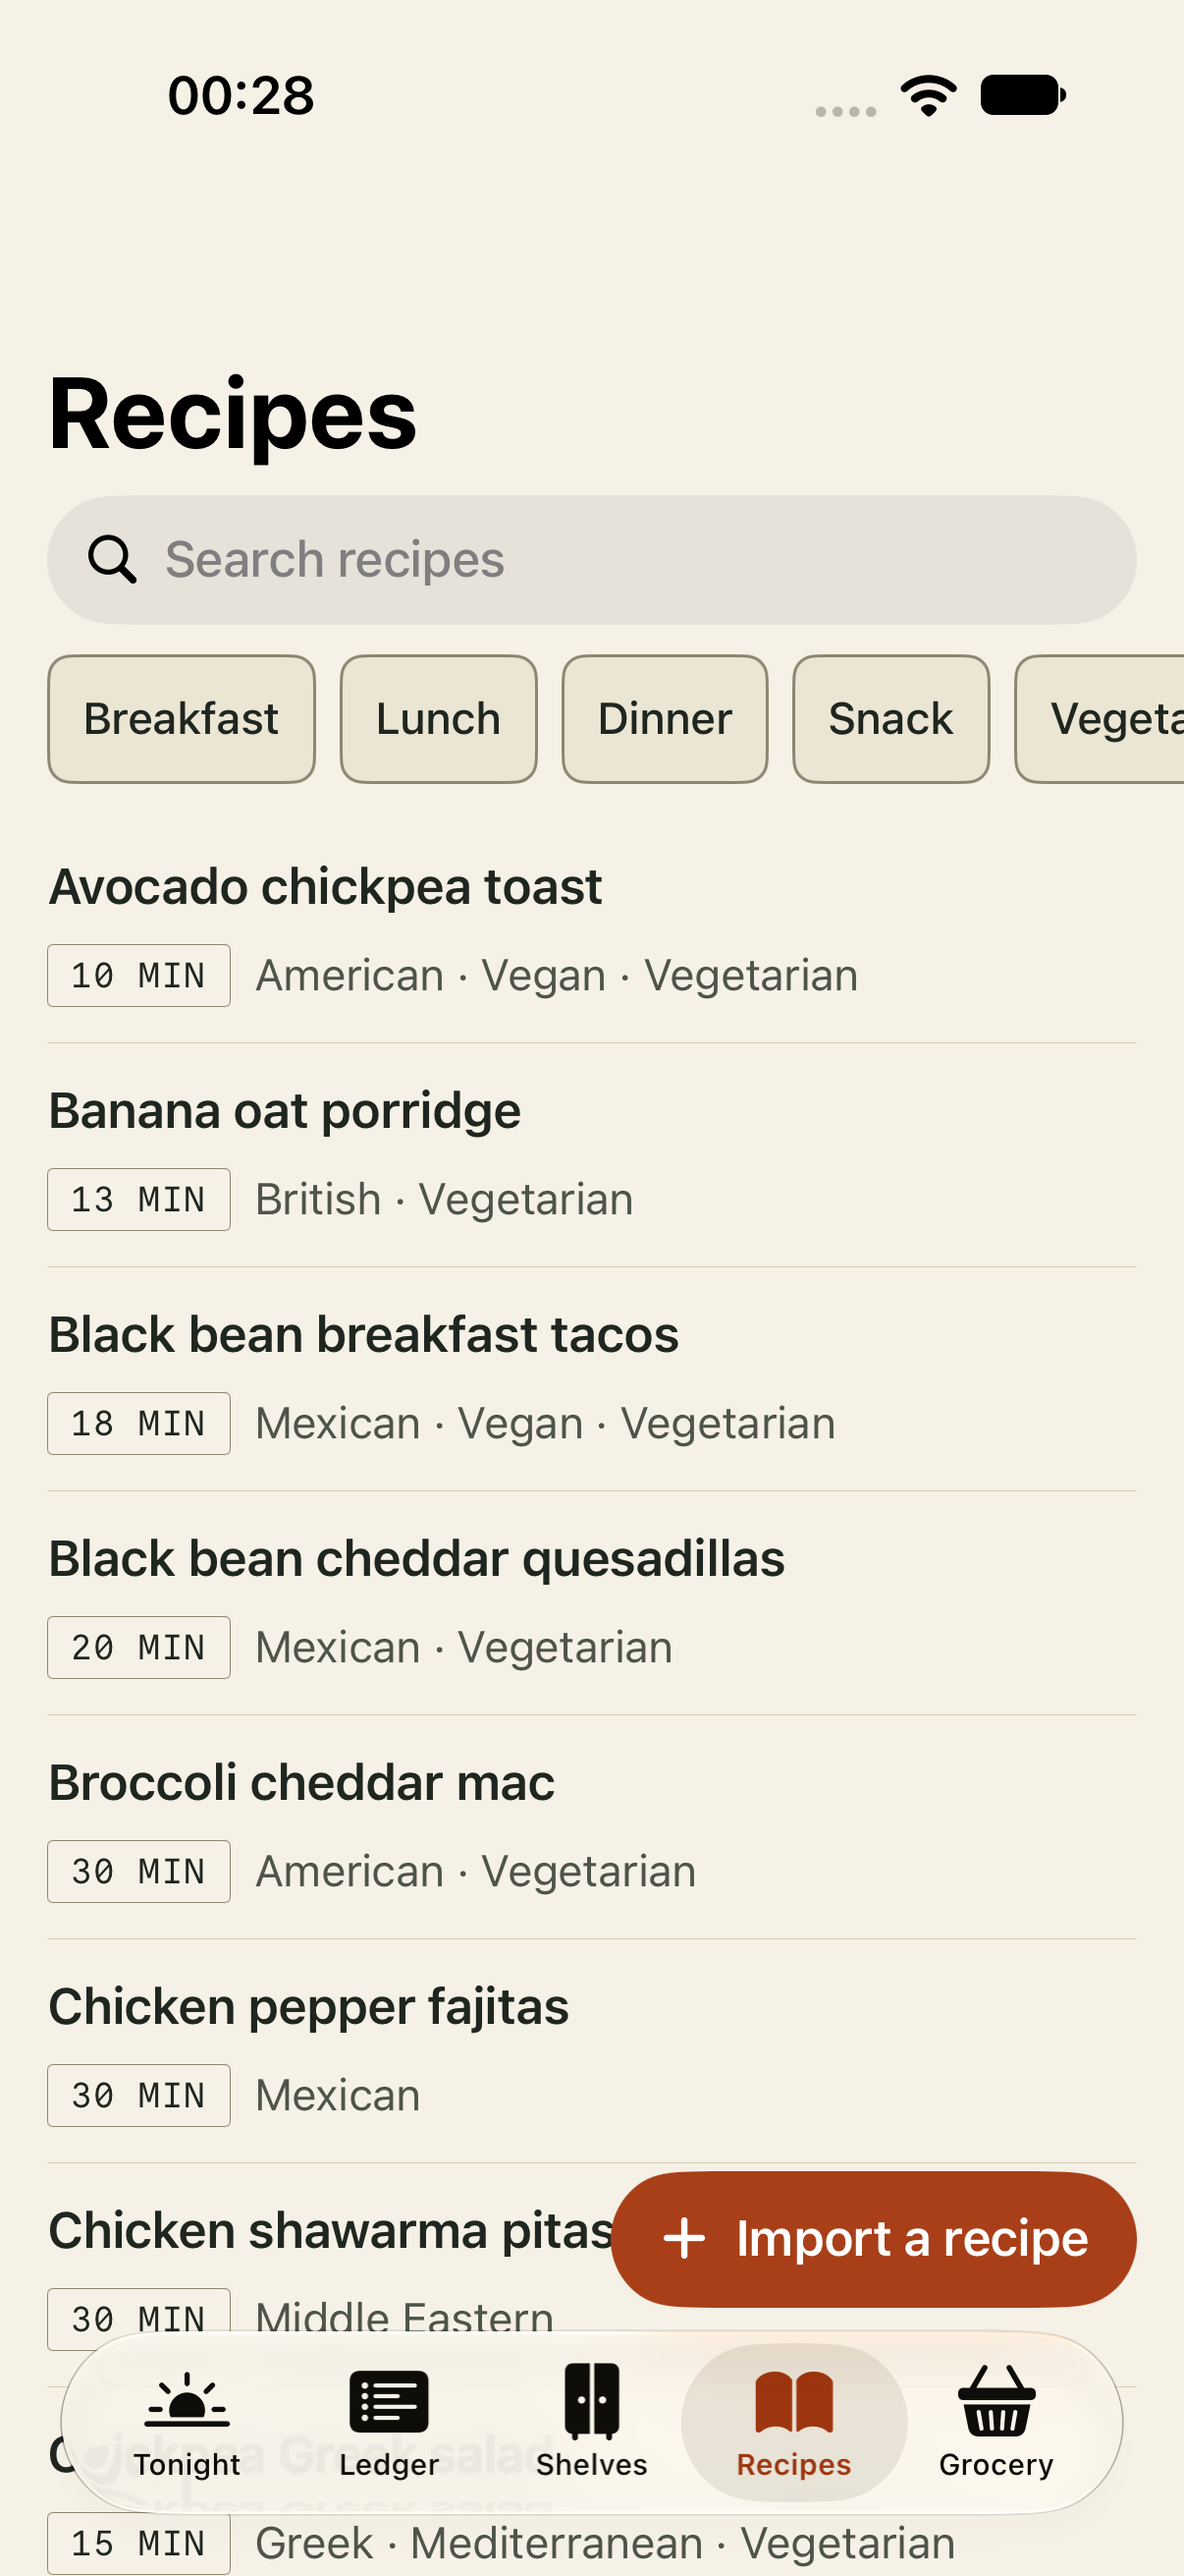
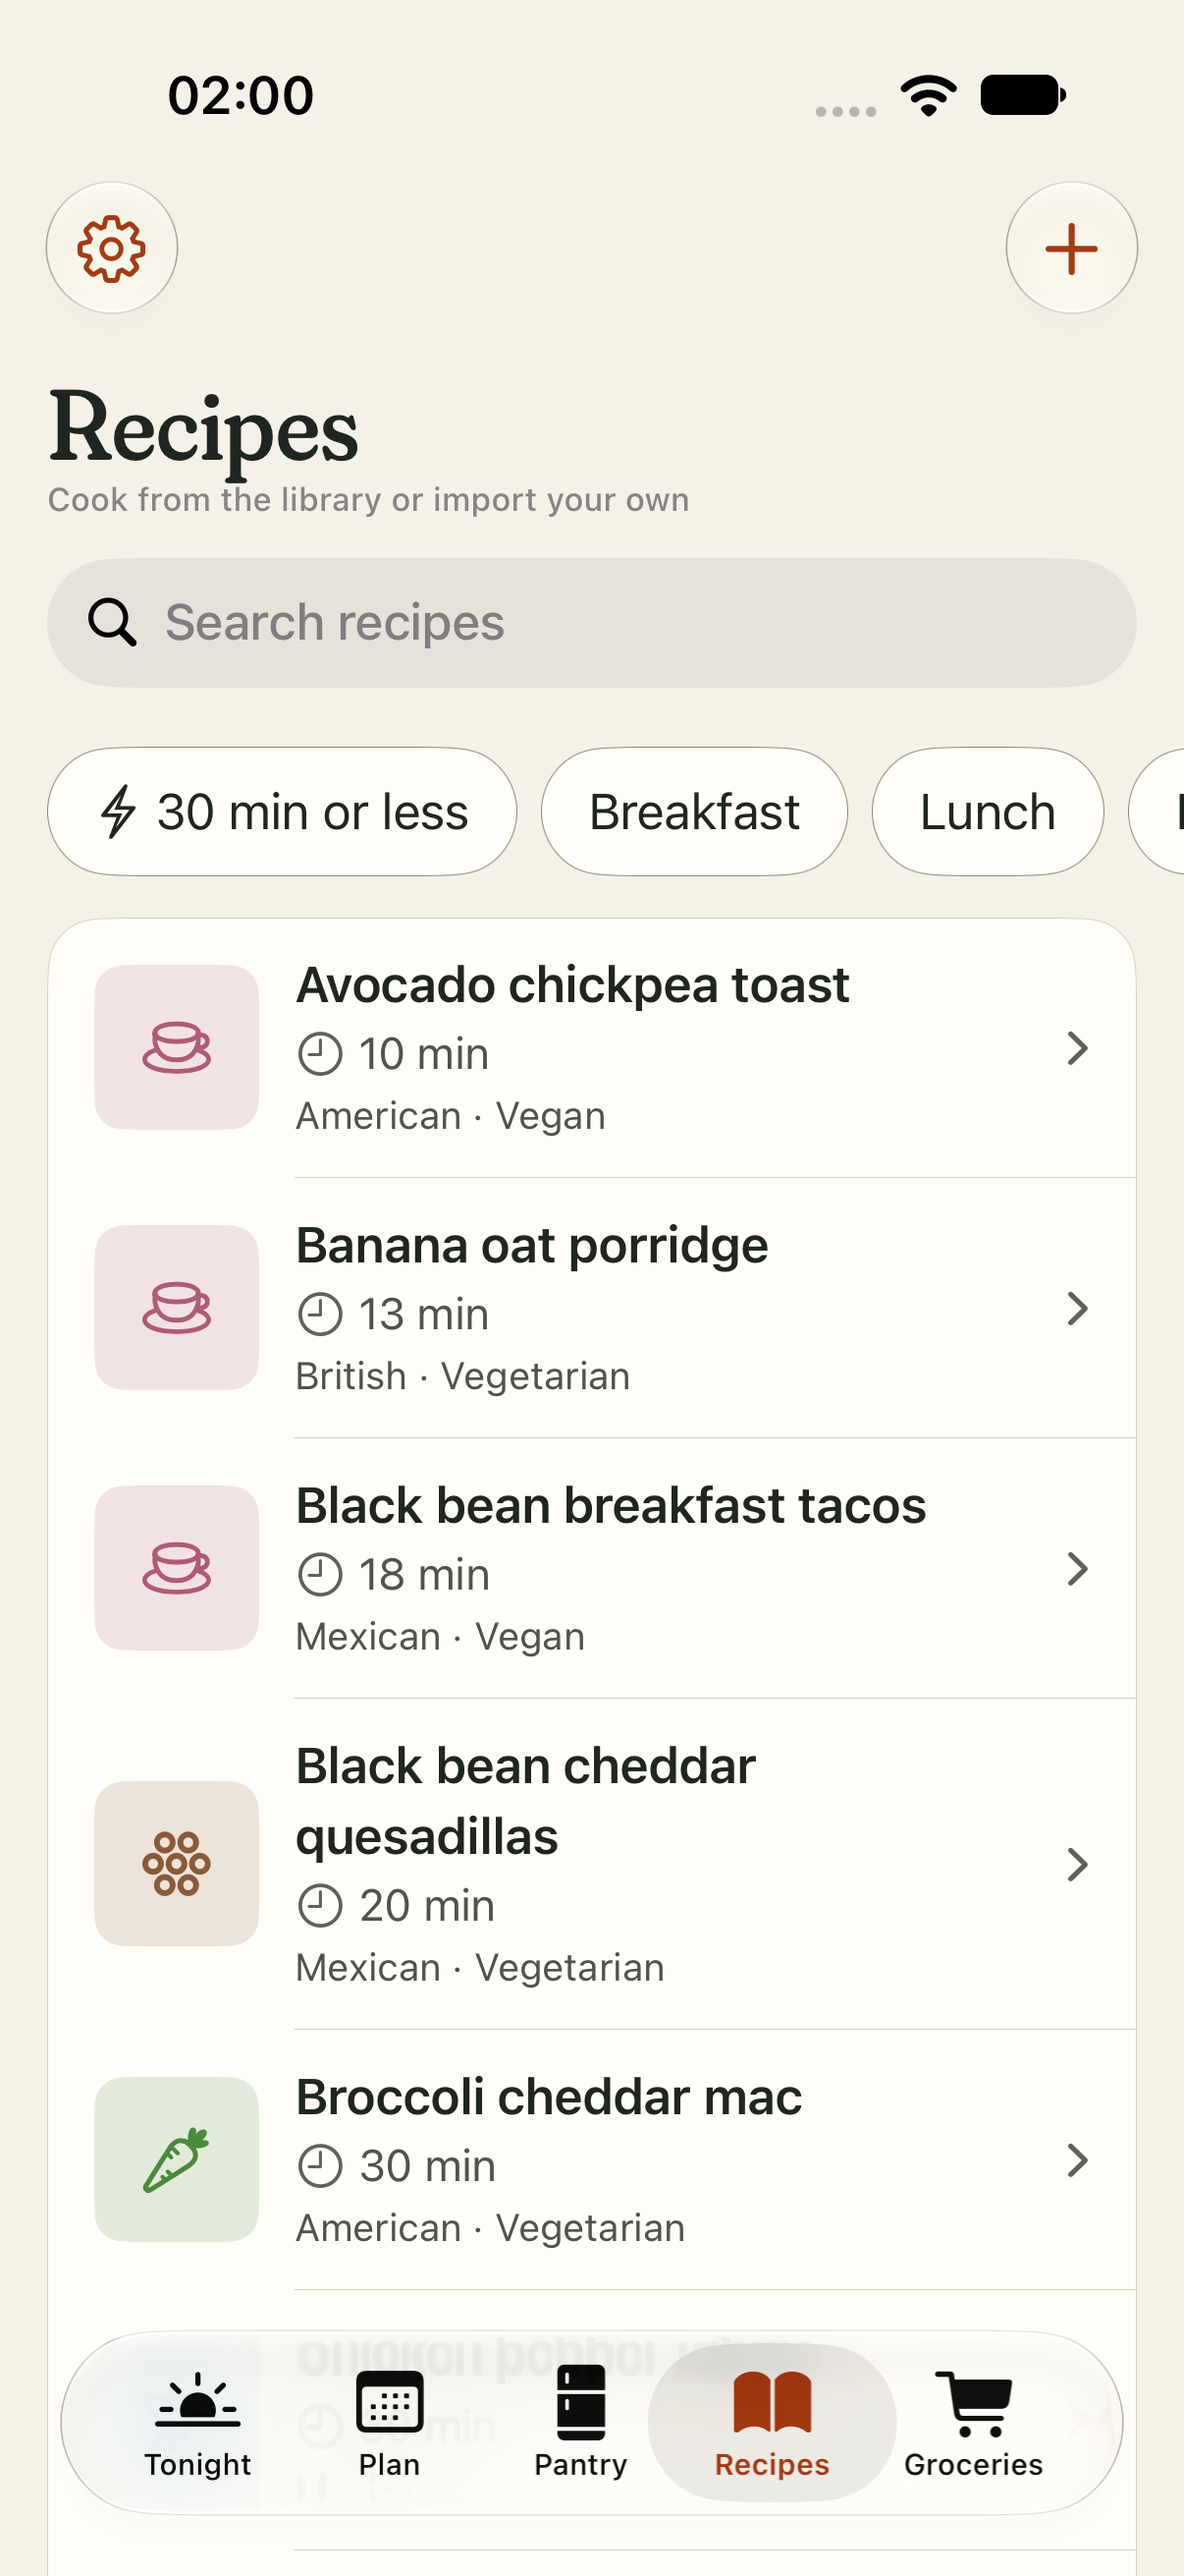
docs: update status, blueprint, readme and screenshots

diff --git a/docs/STATUS.md b/docs/STATUS.md
@@ -6,19 +6,19 @@ What exists, how it was verified, what is still open. Decisions are in `docs/BLU
 
 | Milestone | Contents | Verification |
 |---|---|---|
-| Research | Five reports: users and market, visual identity, accessibility, nutrition and recommendation engine, iOS stack | `docs/research/01..05` |
+| Research | Seven reports: users and market, visual identity, accessibility, nutrition and recommendation engine, iOS stack, a UI/UX audit, and meal-planner UX best practices | `docs/research/01..07` |
 | Scaffold | SwiftPM package `LarderKit` with ten targets, XcodeGen project, scripts, domain model, ports | `swift build`, app builds for simulator |
 | Core engine | Units, nutrition calculator, DGA 2025 / WHO targets, shelf balance, two-path allergen engine with lexicon and exceptions, diet and religious filters, grocery list builder, constraint compiler, scorer, Tonight picker, week planner with local search, independent verifier, swap suggester | 221 Swift Testing tests, including zero hard violations over 150 persona-seed cases and a 7-day plan under 0.5 s |
 | Persistence | GRDB SQLite schema, FTS5 search, repositories, idempotent seed loader with slug-derived IDs and FDC ids, erase-all | 61 tests |
 | Assistant client | Proxy client with App Attest sessions (attest once, assert after, re-attest on a lost key, dev-secret fallback on the Simulator), session caching, PII-free profile summary, prompt sanitiser, deterministic pantry parser, router (on-device, proxy, deterministic, consent-gated) | 90 tests, including proofs that no sensitive field or network call escapes |
 | On-device AI | Foundation Models backend with @Generable types, context guard, error mapping, Vision receipt and barcode readers | 55 tests; the live Foundation Models test ran on this Mac |
-| Design system | 22 colour tokens light and dark with high-contrast variants, typography (bundled Fraunces static instances, SF Pro, bundled Commit Mono), spacing, radius, motion with Reduce Motion, one Copy catalogue for every feature string (398 keys), 12 components | 81 tests, including WCAG ratios for every ink/surface pair, a banned-pattern scan, font registration by PostScript name and catalogue coverage of feature strings |
-| Features | Shelves (pantry), Ledger and Tonight, Recipes with import and cooking mode, Grocery, Account with onboarding, StoreKit 2 entitlements, paywall, settings and export | 49 + 68 + 142 + 23 + 85 tests |
-| App | Dependency graph, onboarding gate, five tabs, App Intents and Shortcuts, today widget via App Group snapshot, UI tests with accessibility audits and screenshots | App and widget build warning-free; five UI tests pass (audits on every tab, onboarding, AX3, recipe-to-plan flow, screenshots) |
+| Design system | 22 colour tokens light and dark with high-contrast variants, typography (bundled Fraunces static instances, SF Pro, bundled Commit Mono), spacing, radius, motion with Reduce Motion, one Copy catalogue for every feature string, 15 components plus a chip flow layout and optional illustrations | 81 tests, including WCAG ratios for every ink/surface pair, a banned-pattern scan, font registration by PostScript name and catalogue coverage of feature strings |
+| Features | Pantry, Plan and Tonight, Recipes with import, add-to-plan by day and cooking mode, Groceries, Account with welcome screen and three-question setup, StoreKit 2 entitlements, paywall, settings and export | 56 + 72 + 142 + 24 + 83 tests |
+| App | Dependency graph, onboarding gate, five tabs, app icon and launch screen, App Intents and Shortcuts, today widget via App Group snapshot, UI tests with accessibility audits and screenshots | App and widget build warning-free; six UI tests pass (audits on every tab and Settings, welcome and setup, AX3, recipe-to-plan-by-day flow, "Set up later" keeps allergens, screenshots of 21 screens in light and dark) |
 | Proxy | Cloudflare Worker in TypeScript with App Attest attestation and assertion verification (stateless challenges, key-derived session subjects), session tokens, App Store JWS entitlement verification, KV quotas, four structured-output routes on Haiku 5.5 and Sonnet 5.5, cache-stable prompts | 165 vitest tests, `tsc` clean |
 | Seed data | 113 foods: 33 from FDC Foundation Foods (2026-04), 77 from SR Legacy (2018-04), 3 approximate and flagged; 42 original recipes; reviewable mapping, importer and validator | `python3 -I Tools/validate-seed.py`; the importer is byte-for-byte reproducible |
 
-Package total: 875 Swift Testing tests across ten targets, all passing on 2026-10-17.
+Package total: 886 Swift Testing tests across ten targets, all passing on 2026-10-17.
 
 ## Commands
 
@@ -42,13 +42,16 @@ Ordered by importance.
 2. Three seed foods have no defensible FDC match and stay `seedApproximate`: cream (FDC has no double cream), mixed seeds (no fixed blend) and vinegar (no white wine vinegar). Added sugar is `null` for every food because neither dataset reports it.
 3. `Tools/validate-seed.py` allows FDC foods a 20% energy tolerance (15% for approximate foods), sugar up to 5% above carbohydrate, and no energy check for foods tagged `alcohol`, because FDC's own records need it.
 4. The medical disclaimer, allergen wording and paywall copy need a registered dietitian and counsel review (GDPR Article 9, Washington MHMDA, App Store 1.4.1).
-5. Live camera scanning UI (DataScannerViewController) is not wired; image-based barcode and receipt reading exists.
+5. Live camera scanning UI (DataScannerViewController) is not wired; image-based barcode and receipt reading exists. Add food offers typing and one-tap staples only.
 6. `App/Larder/RootView.swift` and the App Intents (`WhatsForDinnerIntent`, `OpenTonightIntent`, `LarderShortcuts`) still use local strings; App Intents strings probably belong in an app-target catalogue.
 7. The App Group container for the widget is unverified without code signing; the widget shows "Nothing planned" when the container is unavailable.
 8. `ParsedPantryLine` has no best-by field, so model-extracted best-by hints are dropped.
 9. The parse-pantry system prompt is under the 512-token caching minimum; it will not cache.
 10. Not run: a real StoreKit sandbox purchase, VoiceOver and Voice Control manual passes, a physical device.
+11. Recipes have no photos; dish tiles in a food-group tint stand in. Recipe import does not read the page's image yet.
+12. Pantry amounts are stored in grams; counts such as "6 eggs" are derived from the food's countable portion, so an item without one shows grams.
+13. Cooking timers do not schedule local notifications, so a timer that finishes while Larder is in the background is silent.
 
 ## Known audit limitation
 
-`performAccessibilityAudit` reports contrast issues for list content that scrolls beneath the Liquid Glass tab bar or the floating action capsule, sometimes without an element. The UI tests skip only those: issues whose element frame intersects the tab bar, a floating action or the area below the scroll view, and no-element contrast issues while a tab bar is on screen. Every skip is logged with its description. The same text passes when scrolled clear. The one other exclusion is "Text clipped" on Apple's own search field.
+`performAccessibilityAudit` reports contrast issues for list content that scrolls beneath the Liquid Glass tab bar, sometimes without an element, and for filter chips partly past the side of the window. The UI tests skip only those: issues whose element frame intersects the tab bar, the area below the scroll view or the area beyond the window's sides, and no-element contrast issues while a tab bar is on screen. Every skip is logged with its description. The same text passes when scrolled clear. The one other exclusion is "Text clipped" on Apple's own search fields (Recipes and Pantry).

diff --git a/docs/BLUEPRINT.md b/docs/BLUEPRINT.md
@@ -11,9 +11,9 @@ Beachhead segments: busy households and people with decision fatigue; budget and
 ## 2. Feature set and free/paid split
 
 Free forever (safety and the Mealime-orphan wedge):
-- Shelves (pantry) with quantities, best-by dates, an "Eat first" shelf, natural-language quick add, barcode scan.
+- Pantry with quantities (counted in pieces when a food has a countable portion), best-by dates, a "Use soon" list, search, an item editor, natural-language quick add with one-tap staples, barcode scan.
 - Recipes: seed corpus, private on-device URL import (schema.org JSON-LD), full-text search, scaled ingredients, cooking mode (one step per screen, named timers, keep awake).
-- Ledger (week plan) with manual planning, swap, skip, slide, leftovers that roll forward.
+- Plan (week plan) with manual planning, add any recipe to any of the next seven days, swap, skip, slide, leftovers that roll forward.
 - Tonight: three pantry-first options (deterministic, offline).
 - Grocery list with quantities and aisles; checked items land on the shelves.
 - Allergen and dietary constraint engine (five axes). Never paywalled.
@@ -122,11 +122,14 @@ Rules: Core compiles and tests on macOS with `swift test`. Nothing in Core impor
 
 ## 7. Design system summary
 
-Idea: a pantry ledger. Paper, ink, stamped labels, a shelf. Not a dashboard.
+Idea: a pantry ledger. Paper, ink, stamped labels, a shelf. Not a dashboard. The identity lives in colour, type and illustration; structure is native iOS (2026-10-17 redesign, from `docs/research/06-ui-ux-audit.md` and `07-meal-planner-ux-best-practices.md`).
 
+- Navigation: five tabs with plain task words, Tonight, Plan, Pantry, Recipes, Groceries (code names stay `ledger`, `shelves`, `grocery`); every tab root has a Fraunces large title, a one-line subtitle saying what the screen is for, Settings at the leading edge and its add or share action as a toolbar button at the trailing edge. No floating action buttons over content.
+- First run: one welcome screen (promise plus four "how it works" rows, one Get started), then three optional questions (allergies, diet and health, household and weeknight time) with a progress bar, Back, Continue and "Set up later". Moving on or leaving early never clears an answer. Goal, equipment, birth year, numbers, timers and AI help live in Settings.
+- Components: capsule buttons (filled brand, brand-tinted, text), capsule choice chips with a check, paper cards with an outline and 18 pt continuous corners, dish tiles in a food-group tint in place of stock photos, icon-and-words meta labels, pill badges, toasts with Undo, centred empty states with an illustration and the screen's main action.
 - Typography: Fraunces (static instances, upright 500-700) for display at 22pt and above, scaling fully with Dynamic Type (an earlier cap at `.accessibility2` was removed because Xcode's accessibility audit flags any capped text and Apple's Larger Text criterion needs at least 200% growth); SF Pro for body and UI; Commit Mono for stamps and quantities. Never italic or light Fraunces, never Inter.
 - Colour tokens (light / dark): canvas #F5F1E6 / #161915, raised #FFFDF7 / #20241E, sunken #EBE5D4 / #10120F, hairline #D6CEB8 / #363B32, strong line #8C8570 / #7C7866, ink primary #1F2620 / #F0ECDD, secondary #4F5448 / #BDBAA8, tertiary #5F6256 / #9A9885, brand paprika #A83F18 / #F0875A, second verdigris #2C6B5B / #6FC0A8, spot mustard #E3A82B (fill only), success #2F6B34 / #8FCB84, warning #8A5700 / #E5B04A, danger beet #9C1F43 / #EE8CA6, info #2F5D7C / #8DB9D8; food groups produce #4A8A3C / #86C46F, grains #B07F1E / #E0AE4A, protein #3E6F8E / #78AECF, dairy #B05A78 / #E48FAE, fats #76772A / #B9BA52, legumes #8A5A3A / #C99572.
-- Shape: radii 2 (stamps), 8 (fields), 12 (cards), 24 (sheets), pill (glass controls). Hairline rules and flat tint steps; no shadows, no nested cards, no gradients, no glow, no emoji, no stock photos.
+- Shape: radii 2 (stamps), 8 (fields), 10 (tiles), 12 (cards and notices), 18 (paper panels), 24 (sheets), capsules for buttons, chips and badges. Hairline rules and flat tint steps; no shadows, no nested cards, no gradients, no glow, no emoji, no stock photos.
 - Motion: 120 / 220 / 360 ms; `.snappy` taps, `.smooth` layout, one `.bouncy` "stamped" save; Reduce Motion swaps to crossfades.
 - Voice: dry, no exclamation marks, no em dashes, no moralising; every recommendation gives a reason and one alternative.
 

diff --git a/README.md b/README.md
@@ -35,9 +35,9 @@ The `Larder` scheme's Run action uses `App/Larder/Resources/Larder.storekit`, so
 | `Scripts/generate.sh` | Generates `Larder.xcodeproj` from `project.yml` |
 | `Scripts/build-app.sh` | Builds the Larder app and widget for the first available iPhone simulator |
 | `Scripts/test-app.sh` | Runs the UI tests on the same simulator: accessibility audits of every tab, Settings and onboarding, an AX3 Dynamic Type pass and the screenshots; extra arguments pass to `xcodebuild`, e.g. `-only-testing:LarderUITests/LarderUITests/testDynamicTypeAX3` |
-| `Scripts/screenshots.sh` | Runs only the screenshot test, writing each tab in light and dark mode to `docs/screenshots/<tab>-<light\|dark>.png` |
+| `Scripts/screenshots.sh` | Runs only the screenshot test, writing every screen (welcome, setup, each tab, empty states, the planned week, meal sheet, recipe detail, cooking, adding and editing food, Settings) in light and dark mode to `docs/screenshots/<screen>-<light\|dark>.png` |
 
-UI tests launch the app with `-LarderUITestMode`: an in-memory store with the seed library, eight shelf items and a saved profile, so nothing touches your simulator's data. Add `-LarderUITestOnboarding` to start at onboarding instead.
+UI tests launch the app with `-LarderUITestMode`: an in-memory store with the seed library, eight pantry items and a saved profile, so nothing touches your simulator's data. Add `-LarderUITestOnboarding` to start at the welcome screen instead, or `-LarderUITestEmptyPantry` to start with nothing in the pantry.
 
 ## Folders
 
